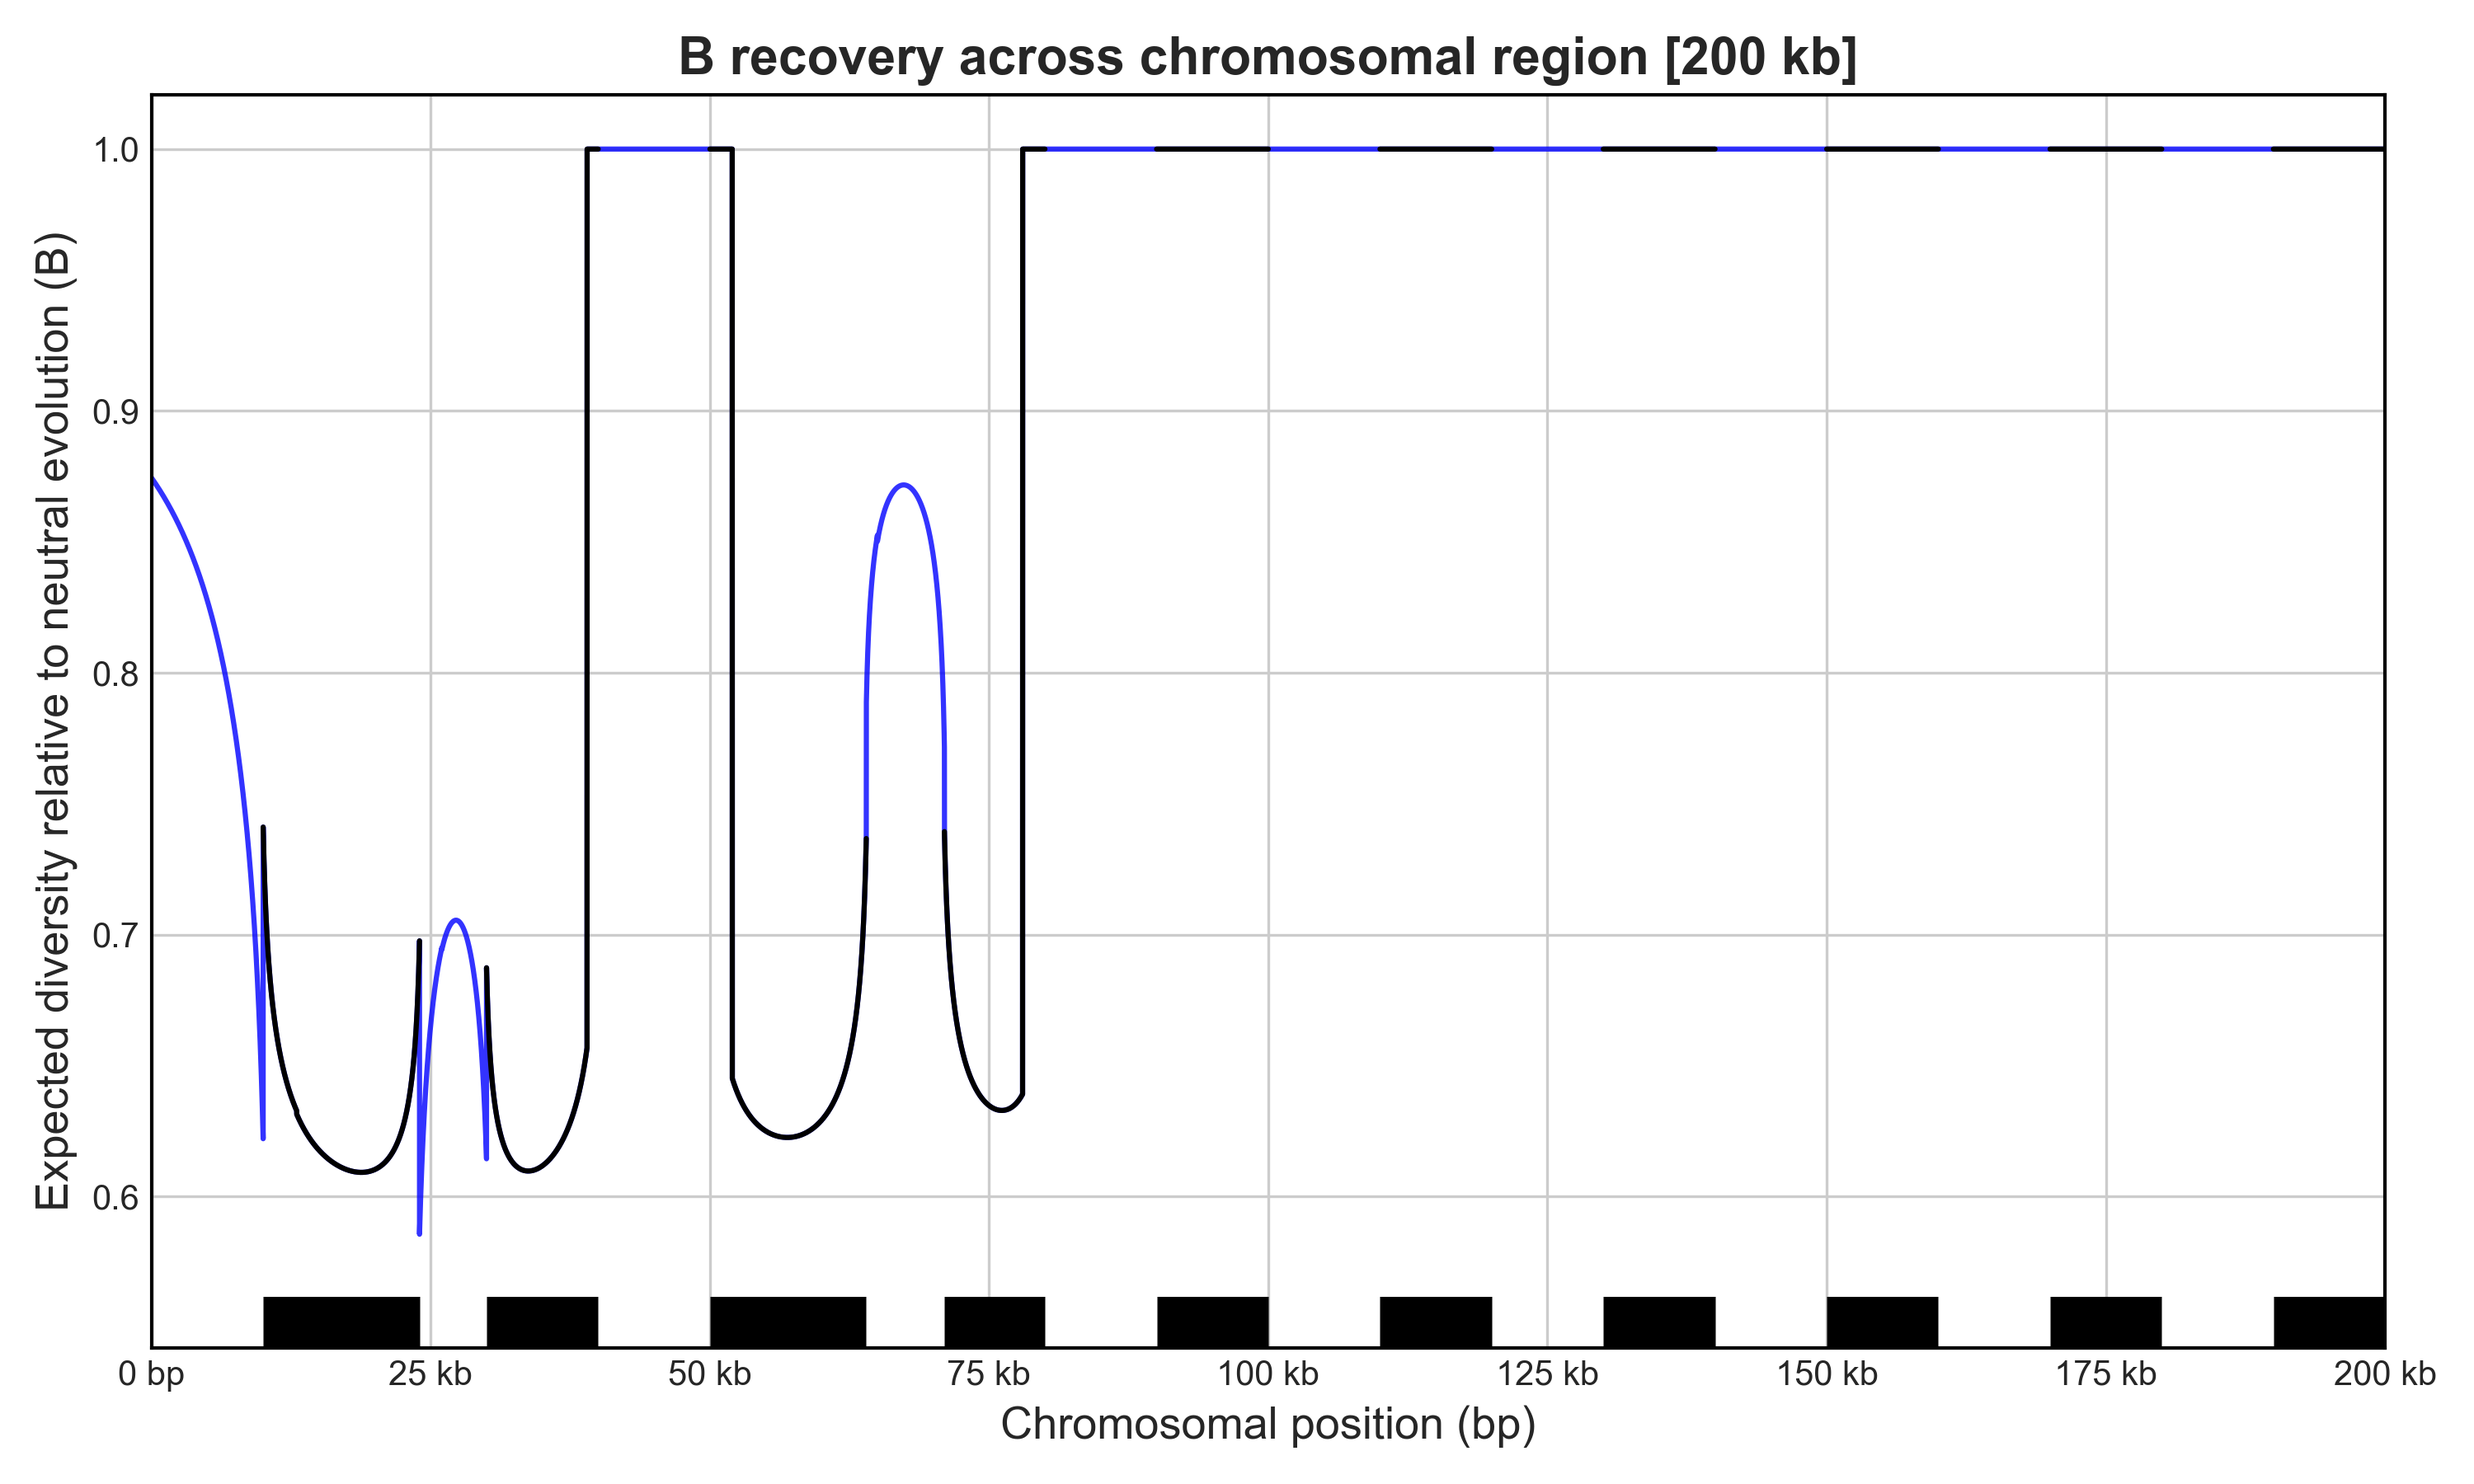
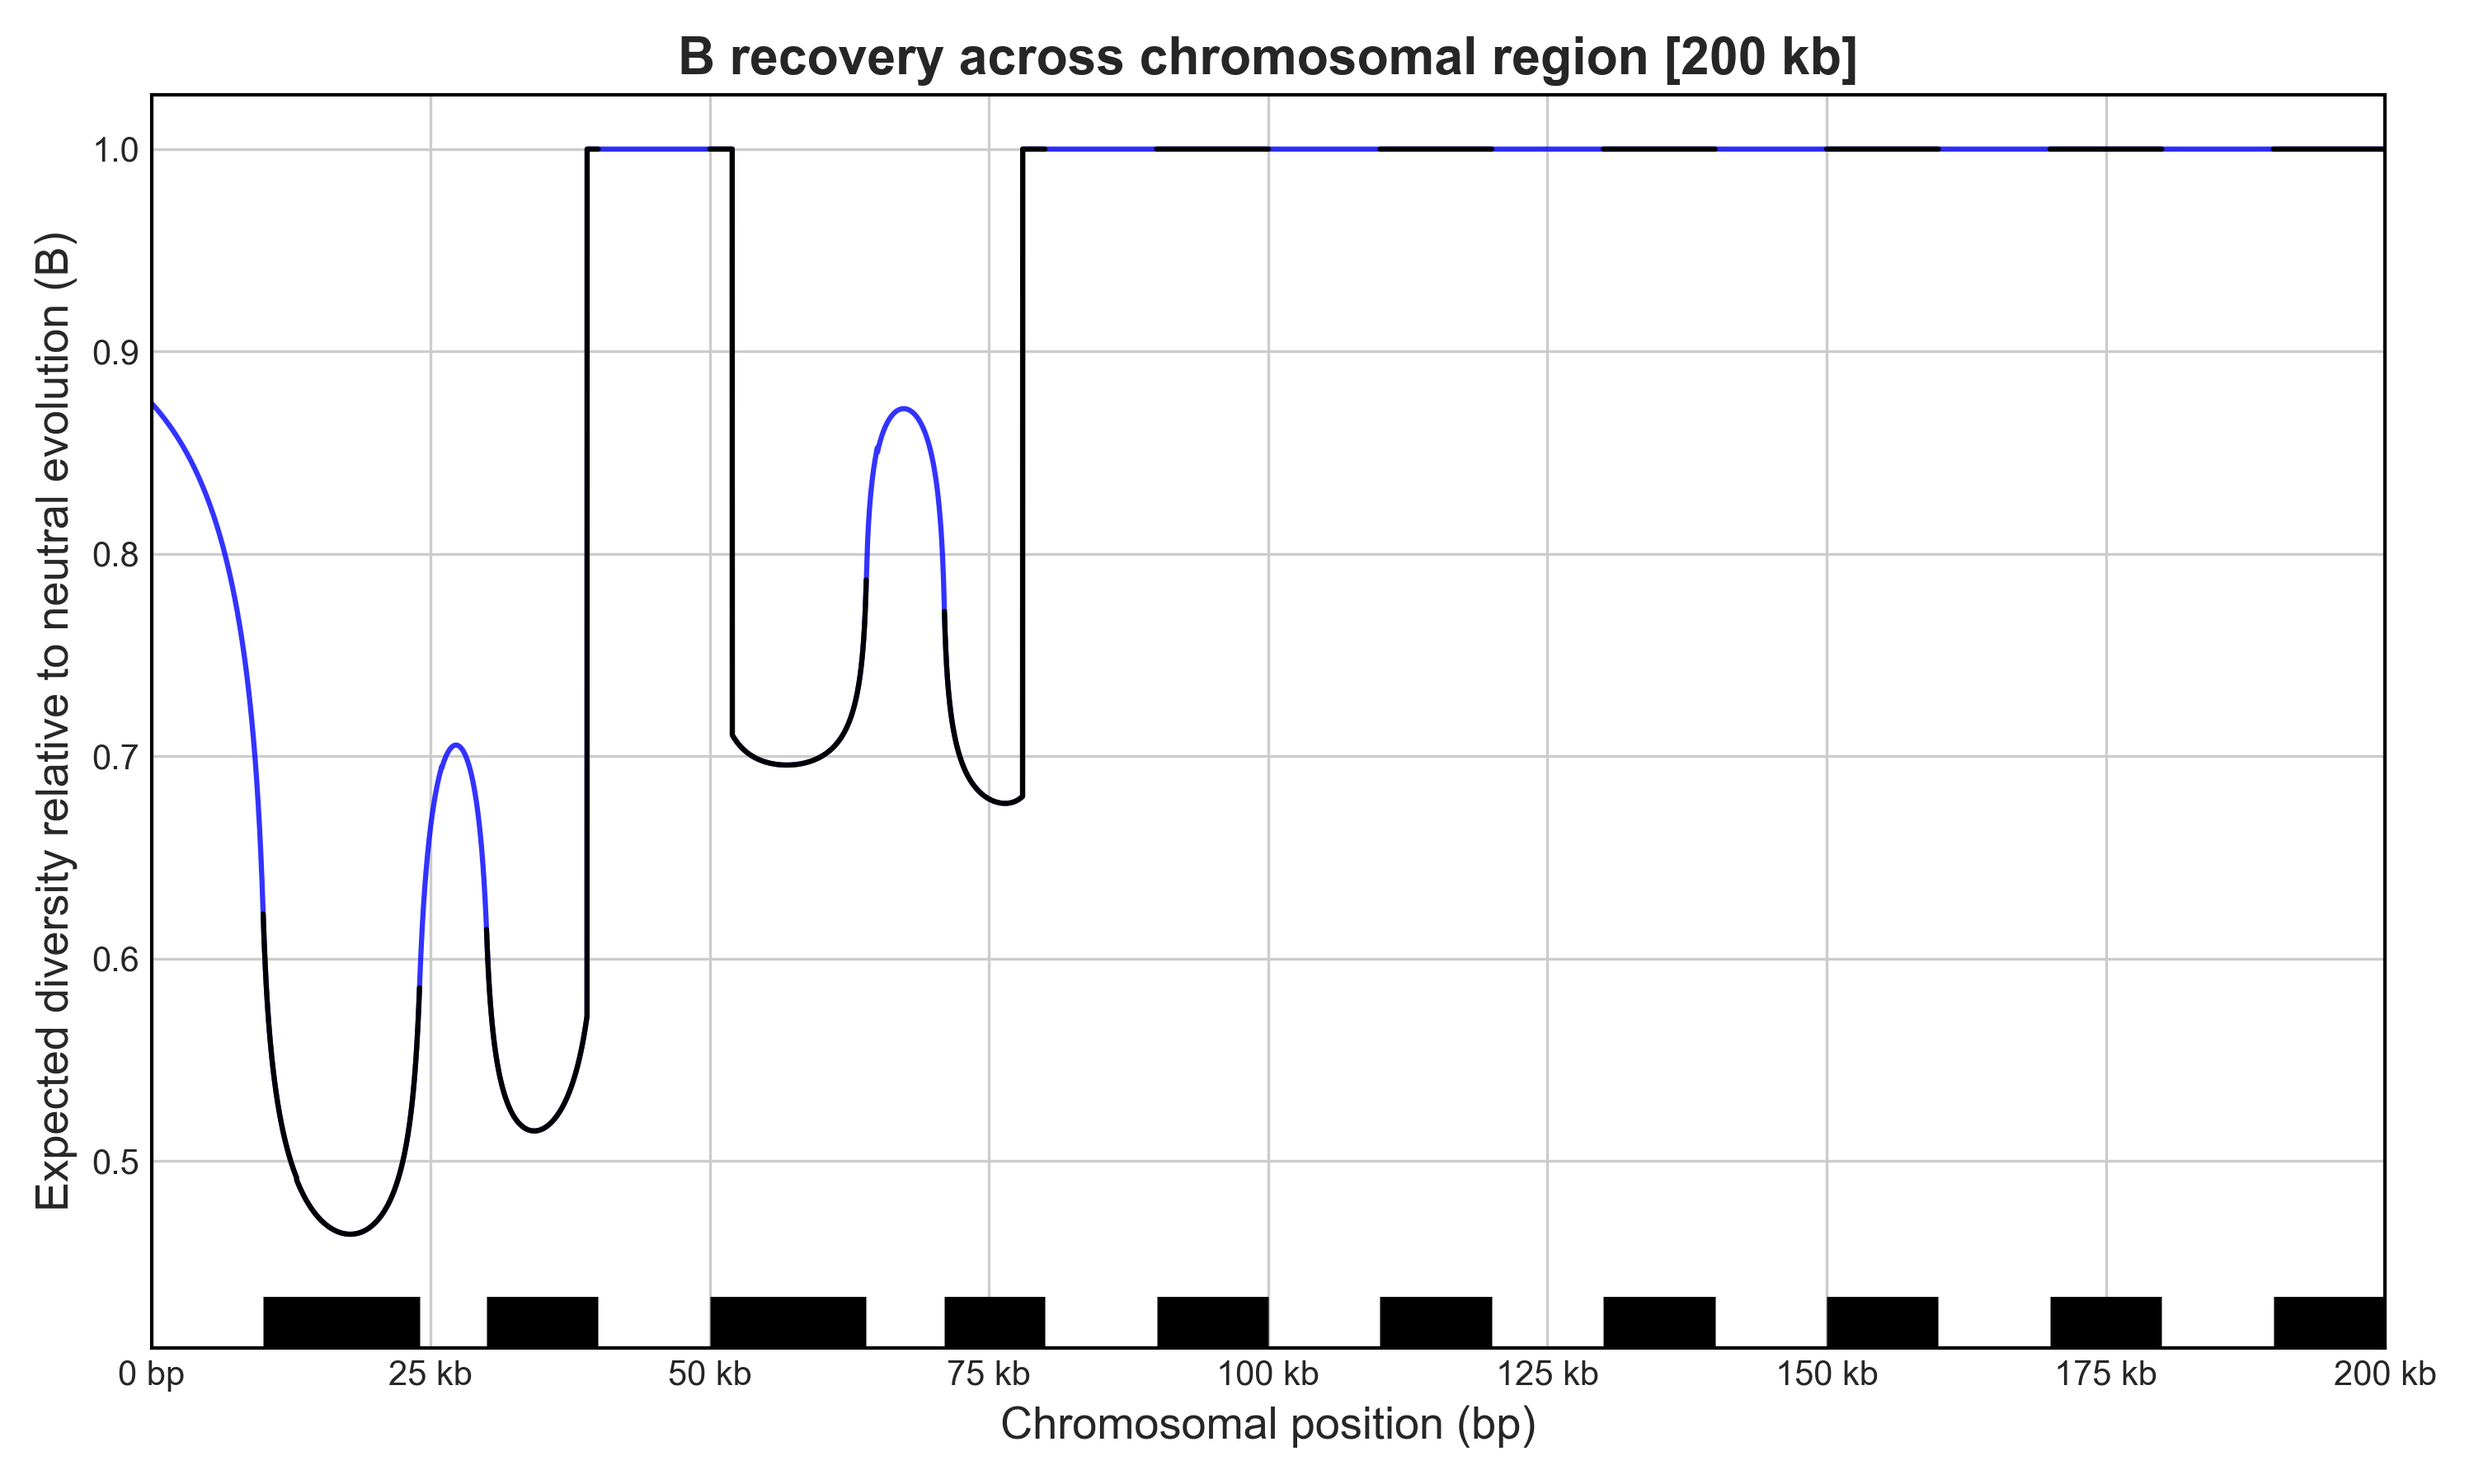
Recmap included in B calcs for genic sites

diff --git a/helperScripts/calculateB.py b/helperScripts/calculateB.py
@@ -71,53 +71,56 @@ def calculateB_recmap(distance_to_element, length_of_element,
     Calculate the B value WITH REC MAP for a single functional element at the focal site,
     summing over the DFE while consolidating the intermediate calculations.
     """    
-    # rec_distances is the length of the element * rec rate in each spanned region. 
-    if rec_distances is not None:
-        rec_adjusted_length_of_element = rec_lengths 
-        rec_adjusted_distance_to_element = rec_distances
-    else:
-        rec_adjusted_length_of_element = length_of_element
-        rec_adjusted_distance_to_element = distance_to_element
-    
-    if gc_distances is not None:
-        gc_adjusted_length_of_element = gc_lengths 
-        gc_adjusted_distance_to_element = gc_distances
-        g_k = (gc_lengths / length_of_element) * g * k
-    else:
-        gc_adjusted_length_of_element = length_of_element
-        gc_adjusted_distance_to_element = distance_to_element
-        g_k = g * k
+    with np.errstate(divide='ignore', invalid='ignore'):
+        # rec_distances is the length of the element * rec rate in each spanned region. 
+        if rec_distances is not None:
+            rec_adjusted_length_of_element = rec_lengths 
+            rec_adjusted_distance_to_element = rec_distances
+        else:
+            rec_adjusted_length_of_element = length_of_element
+            rec_adjusted_distance_to_element = distance_to_element
         
-    C = (1.0 - np.exp(-2.0 * r * rec_adjusted_distance_to_element)) / 2.0 # cM
-    U = length_of_element * u
-    if g == 0:
-        a = C
-        b = C + r * rec_adjusted_length_of_element # cM
-    elif g > 0:
-        threshold = gc_adjusted_distance_to_element + gc_adjusted_length_of_element < 0.5 * k # Arbitrary threshold
-        a = np.where(
-            threshold, 
-            C + (g * gc_adjusted_distance_to_element), #If TRUE
-            C + g_k #If FALSE
-        )
-        b = np.where(
-            threshold,
-            C + r * rec_adjusted_length_of_element + (g * (gc_adjusted_distance_to_element + gc_adjusted_length_of_element)), #If TRUE
-            C + g_k + r * rec_adjusted_length_of_element #If FALSE
-        )
+        if gc_distances is not None:
+            gc_adjusted_length_of_element = gc_lengths 
+            gc_adjusted_distance_to_element = gc_distances
+            g_k = (gc_lengths / length_of_element) * g * k
+        else:
+            gc_adjusted_length_of_element = length_of_element
+            gc_adjusted_distance_to_element = distance_to_element
+            g_k = g * k
+            
+        C = (1.0 - np.exp(-2.0 * r * rec_adjusted_distance_to_element)) / 2.0 # cM
+        U = length_of_element * u
+        if g == 0:
+            a = C
+            b = C + r * rec_adjusted_length_of_element # cM
+        elif g > 0:
+            threshold = gc_adjusted_distance_to_element + gc_adjusted_length_of_element < 0.5 * k # Arbitrary threshold
+            a = np.where(
+                threshold, 
+                C + (g * gc_adjusted_distance_to_element), #If TRUE
+                C + g_k #If FALSE
+            )
+            b = np.where(
+                threshold,
+                C + r * rec_adjusted_length_of_element + (g * (gc_adjusted_distance_to_element + gc_adjusted_length_of_element)), #If TRUE
+                C + g_k + r * rec_adjusted_length_of_element #If FALSE
+            )
 
-    E_f1 = calculate_exponent(t1half, t2, U, a, b)
-    E_f2 = calculate_exponent(t2, t3, U, a, b)
-    E_f3 = calculate_exponent(t3, t4, U, a, b)
+        E_f1 = calculate_exponent(t1half, t2, U, a, b)
+        E_f2 = calculate_exponent(t2, t3, U, a, b)
+        E_f3 = calculate_exponent(t3, t4, U, a, b)
 
-    E_bar = ( # Sum over the DFE
-        f0 * 0.0
-        + f1 * ((t1half - t1) / (t2 - t1)) * 0.0
-        + f1 * ((t2 - t1half) / (t2 - t1)) * E_f1
-        + f2 * E_f2
-        + f3 * E_f3)
+        E_bar = ( # Sum over the DFE
+            f0 * 0.0
+            + f1 * ((t1half - t1) / (t2 - t1)) * 0.0
+            + f1 * ((t2 - t1half) / (t2 - t1)) * E_f1
+            + f2 * E_f2
+            + f3 * E_f3)    
 
-    return np.exp(-1.0 * E_bar) # Return B
+        B = np.exp(-1.0 * E_bar)
+        
+    return np.where(length_of_element == 0, 1.0, B)
 
 def calculateB_linear_oldGC(distance_to_element, length_of_element):
     """

diff --git a/helperScripts/RunBCalcScripts/process_single_chunk.py b/helperScripts/RunBCalcScripts/process_single_chunk.py
@@ -132,7 +132,6 @@ def process_single_chunk(chunk_num, chunk_size, blockstart, blockend, chr_start,
             this_chunk_physlengths = physical_lengths[genes_in_this_chunk_mask]
             left_chunk_reclengths = left_block_lengths * (this_chunk_reclengths/this_chunk_physlengths)
             right_chunk_reclengths = right_block_lengths * (this_chunk_reclengths/this_chunk_physlengths)
-            
 
 
             ### GET DISTANCE TO ELsMENTS
@@ -140,19 +139,17 @@ def process_single_chunk(chunk_num, chunk_size, blockstart, blockend, chr_start,
             chunk_starts = precise_region_start + np.arange(0, num_chunks + 1) * chunk_size
             this_chunk_idx = np.where(chunk_starts == chunk_start)[0][0] # The ID of this chunk in the chunk_starts array, e.g. if precise_chunks = 3, this will be [3] for chunk_num > 2
             precise_rates = rec_rate_per_chunk[np.maximum(0, chunk_num - precise_chunks):np.minimum(num_chunks, chunk_num + precise_chunks + 1)]
-            distance_to_element = 1 * precise_rates[this_chunk_idx] # The ID of this chunk in the chunk_starts array, e.g. if precise_chunks = 3, this will be [3] for chunk_num > 2
-            ### NOW, GET LENGTHS OF LEFT and RIGHT blocks
-            if chunk_num == 5:
-                print("gbs", chunk_start, chunk_end, gene_blockstart)
-                print("reclengths", rec_lengths, precise_blockstart, genes_in_this_chunk_mask, this_chunk_reclengths, this_chunk_physlengths, left_block_lengths, left_chunk_reclengths, right_chunk_reclengths)
+            rec_bp_to_element = 1 * precise_rates[this_chunk_idx] # The ID of this chunk in the chunk_starts array, e.g. if precise_chunks = 3, this will be [3] for chunk_num > 2
 
+            left_block_B = calculateB_recmap(distance_to_element = 1, length_of_element = left_block_lengths, rec_distances=rec_bp_to_element, rec_lengths=left_chunk_reclengths)
+            right_block_B = calculateB_recmap(distance_to_element = 1, length_of_element = right_block_lengths, rec_distances=rec_bp_to_element, rec_lengths=right_chunk_reclengths)
+            # if chunk_num == 5:
+            #     print("gbs", chunk_start, chunk_end, gene_blockstart)
+            #     print("leftBs", right_block_B)
 
-
-
-
-
-        left_block_B = calculateB_linear(distance_to_element = 1, length_of_element = left_block_lengths)
-        right_block_B = calculateB_linear(distance_to_element = 1, length_of_element = right_block_lengths)
+        else:
+            left_block_B = calculateB_linear(distance_to_element = 1, length_of_element = left_block_lengths)
+            right_block_B = calculateB_linear(distance_to_element = 1, length_of_element = right_block_lengths)
         gene_sites = gpos_in_chunk-chunk_start
         np.append(agg_gene_B, gene_sites)
         np.multiply.at(agg_gene_B, gene_sites, left_block_B)
